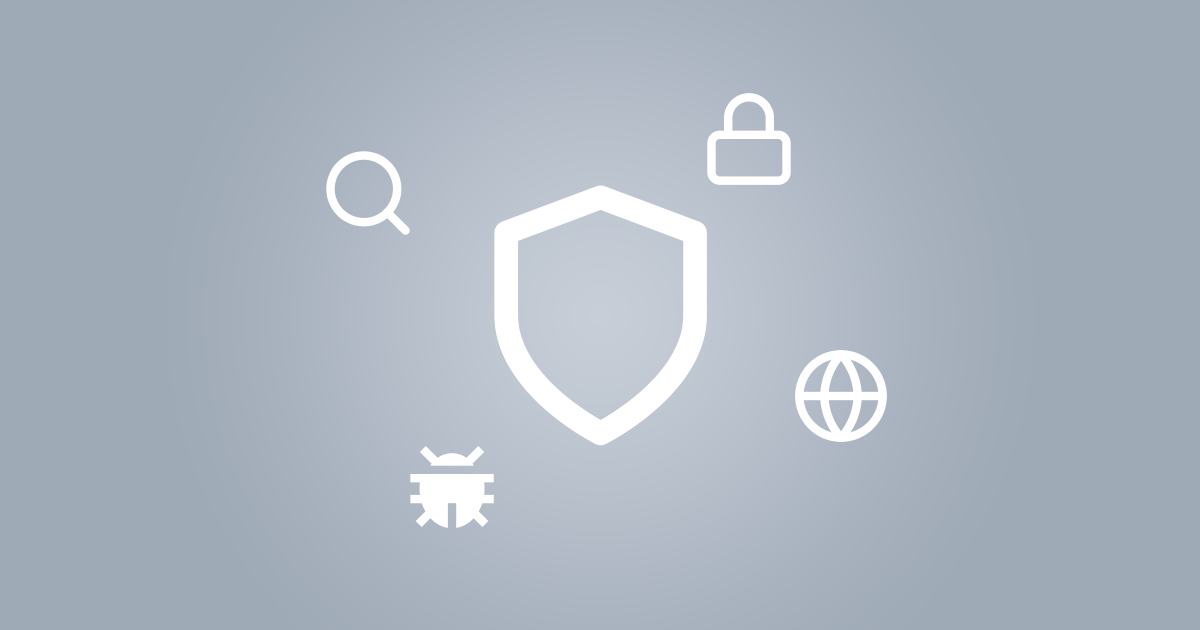
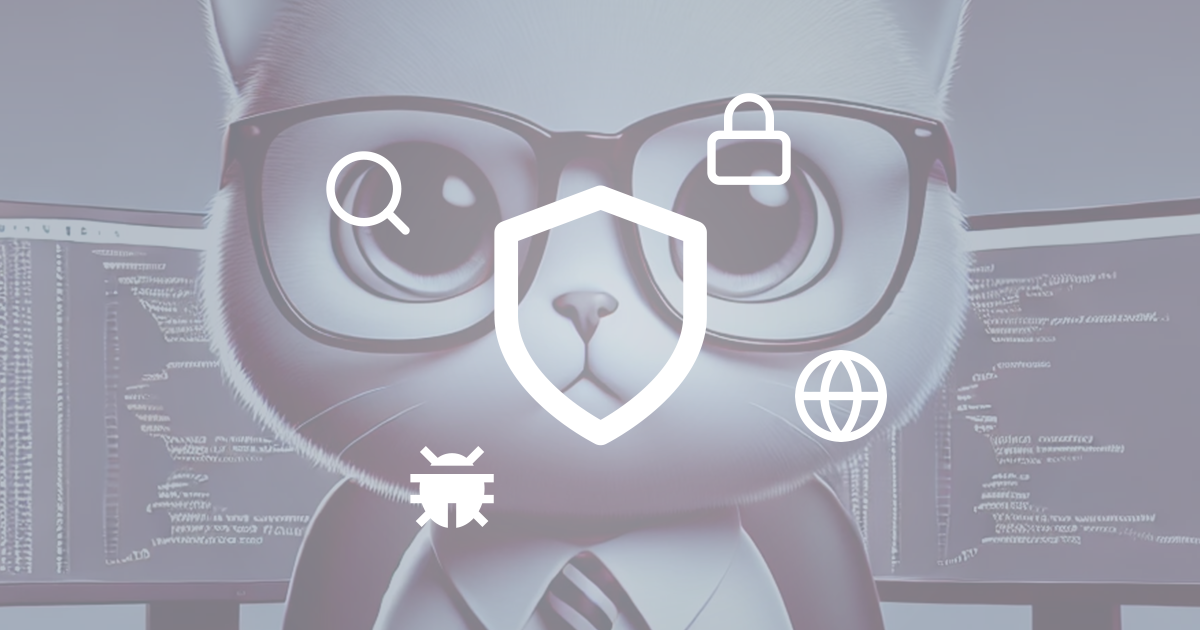
penetration post added

diff --git a/_posts/2024/cybersecurity/2024-07-03-intro-pentesting.md b/_posts/2024/cybersecurity/2024-07-03-intro-pentesting.md
@@ -1,0 +1,75 @@
+---
+title: Introduction to Penetration Testing
+date: 2024-07-04 17:20:00 -0500
+categories: [Papers, Reverse Engineering]
+tags: [reverse engineering, binary function similarity problem, machine learning]     # TAG names should always be lowercase
+image: /assets/img/posts/intro-pentest/cover.png
+alt: "How Machine Learning Is Solving the Binary Function Similarity Problem?"
+---
+Penetration testing, commonly known as pentesting, is a critical practice in cybersecurity. It involves testing a computer system, network, or web application to identify vulnerabilities that an attacker could exploit. In this blog post, we will cover the fundamentals of penetration testing, including methodologies, frameworks, and key concepts.
+
+## Legal and Ethical Considerations
+
+Penetration testing services are regulated by legal frameworks and industry accreditation. For example, in the UK, the National Cyber Security Centre (NCSC) has the CHECK accreditation scheme. Only CHECK-approved companies can conduct authorized penetration tests on public sector and critical national infrastructure (CNI) systems and networks.
+
+Penetration testers often face morally questionable decisions. For instance, accessing sensitive data during a test or performing phishing attacks on employees are actions that must be pre-approved and documented in the Rules of Engagement (ROE). The ROE outlines the scope, objectives, and legal permissions of the test.
+
+## Methodologies
+
+The steps taken during a penetration test are known as the methodology. A practical methodology adapts to the specific situation. For example, testing a web application's security requires a different approach than testing a network's security. Here are some industry-standard methodologies:
+
+- **Open Source Security Testing Methodology Manual (OSSTMM)**: Provides a detailed framework for testing systems, software, applications, communications, and human aspects of cybersecurity.
+- **Open Web Application Security Project (OWASP)**: A community-driven framework for testing the security of web applications and services.
+- **NIST Cybersecurity Framework**: Popular for improving organizational cybersecurity standards and managing cyber threat risks.
+
+## Key Frameworks
+
+### NCSC Cyber Assessment Framework (CAF)
+
+The CAF consists of fourteen principles used to assess cyber threats and organizational defenses. It applies to organizations performing vital services, such as critical infrastructure and banking.
+
+### Defense in Depth
+
+This strategy uses multiple security layers to protect an organization's systems and data. The goal is to create redundancy in the security perimeter, making it harder for attackers to penetrate.
+
+### The CIA Triad
+
+The CIA triad stands for Confidentiality, Integrity, and Availability. It is a foundational model in information security:
+
+- **Confidentiality**: Ensures that sensitive information is accessed only by authorized individuals.
+- **Integrity**: Ensures the accuracy and completeness of data.
+- **Availability**: Ensures that information is accessible when needed.
+
+## Security Models
+
+### Bell-La Padula Model
+
+This model focuses on confidentiality. It uses the rules "no write down, no read up," meaning users cannot write to lower security levels or read from higher security levels. It is commonly used in hierarchical organizations like the military and government.
+
+### Biba Model
+
+The Biba model addresses integrity. It uses the rules "no write up, no read down," meaning users can write to objects at or below their level but can only read from objects above their level. It is useful in environments where data integrity is paramount, such as software development.
+
+## Threat Modeling and Incident Response
+
+Frameworks like STRIDE (Spoofing, Tampering, Repudiation, Information Disclosure, Denial of Service, Elevation of Privileges) and PASTA (Process for Attack Simulation and Threat Analysis) help in identifying and analyzing potential threats.
+
+In the event of a security incident, a Computer Security Incident Response Team (CSIRT) is responsible for managing and mitigating the impact. The incident response process typically involves six phases:
+
+1. Preparation
+2. Identification
+3. Containment
+4. Eradication
+5. Recovery
+6. Lessons Learned
+
+## Conclusion
+
+Penetration testing is a vital practice for identifying and mitigating security vulnerabilities. By understanding the methodologies, frameworks, and key concepts, organizations can better protect their systems and data from potential cyber threats.
+
+By incorporating these practices and continuously improving security measures, organizations can stay ahead of potential threats and ensure robust cybersecurity.
+
+## Read More
+- <a href="https://www.isecom.org/OSSTMM.3.pdf" target="_blank">OSSTMM</a>
+- <a href="https://owasp.org/" target="_blank">OWASP</a>
+- <a href="https://www.nist.gov/cyberframework" target="_blank">NIST Cybersecurity Framework</a>

diff --git a/_posts/2024/papers/-2024-07-03-solving-binary-function-similarity-with-ml.md b/_posts/2024/papers/-2024-07-03-solving-binary-function-similarity-with-ml.md
@@ -1,0 +1,13 @@
+---
+title: Understanding Binary Function Similarity
+date: 2024-07-05 15:20:00 -0500
+categories: [Papers, Reverse Engineering]
+tags: [reverse engineering, binary function similarity problem, machine learning]     # TAG names should always be lowercase
+image: /assets/img/posts/paper-binary-comparison/cover.png
+alt: "How Machine Learning Is Solving the Binary Function Similarity Problem?"
+---
+## Binary Function Similarity
+Binary function similarity is the problem of **taking as input the binary representation of a pair of functions, and producing as output a numeric value that captures the “similarity” between them**.
+
+## Read More
+1. <a href="https://www.usenix.org/conference/usenixsecurity22/presentation/marcelli" target="_blank">How Machine Learning Is Solving the Binary Function Similarity Problem</a>

diff --git a/_posts/2024/cybersecurity/2024-07-01-intro-cybersecurity.md b/_posts/2024/cybersecurity/2024-07-01-intro-cybersecurity.md
@@ -1,5 +1,5 @@
 ---
-title: A Practical Introduction to Cybersecurity
+title: Introduction to Cybersecurity
 date: 2024-07-01 17:20:00 -0500
 categories: [Cybersecurity]
 tags: [cybersecurity, introduction-to-cybersecurity]     # TAG names should always be lowercase
